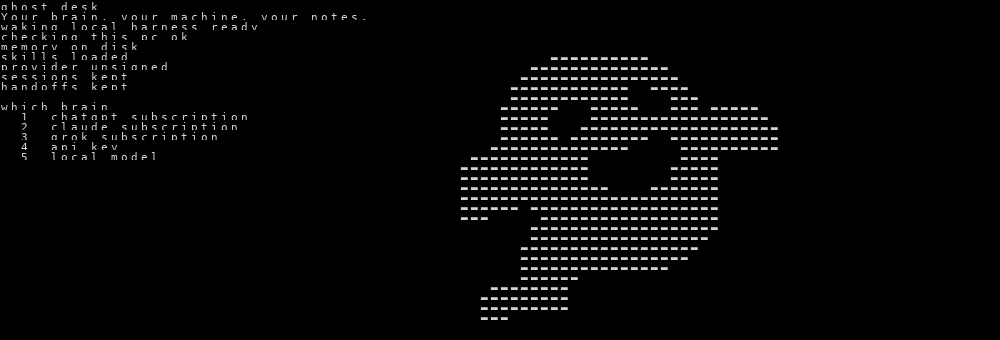
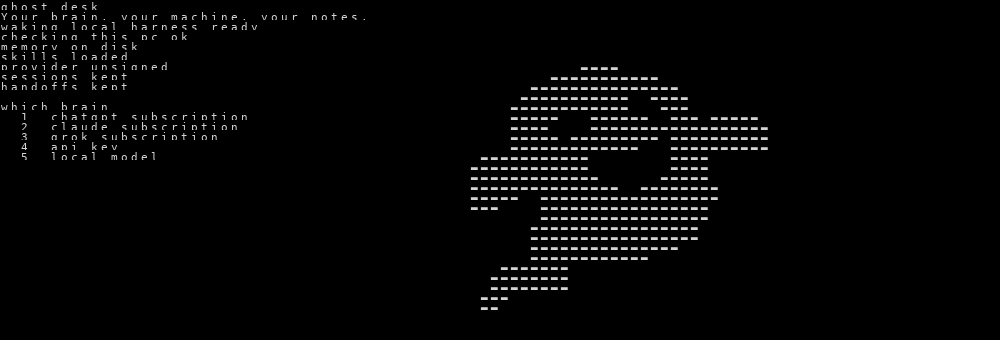
Render the cartoon ghost smoothly, exactly as drawn
- New smooth pipeline for cartoon art: lift the flat gray background
  to black, keep the soft shading and clean outlines with LANCZOS,
  no more dot-density speckle
- The portrait is now the actual drawing: round body, side-glancing
  eyes, open mouth, stubby arms, wavy tail
- Fresh boot/session screenshots

diff --git a/src/ghost_desk/face.py b/src/ghost_desk/face.py
@@ -13,7 +13,9 @@ SESSION_HEIGHT = 38
 _BLACK = 16
 _DOT = 64
 # White-on-gray art needs a higher cut so the background drops to black.
-_DOT_BY_ASSET = {"ghost.png": 110}
+_DOT_BY_ASSET: dict[str, int] = {}
+# Cartoon art renders smooth: no dot threshold, background keyed out.
+_SMOOTH_ASSETS = {"ghost.png"}
 _BLOCK_CACHE: dict[tuple, list] = {}
 _ANSI_CACHE: dict[tuple, list[str]] = {}
 
@@ -38,11 +40,18 @@ def _dark(value) -> bool:
 def _load(path: Path, width: int, height: int):
     from PIL import Image
 
+    name = Path(path).name
     image = Image.open(path).convert("RGB")
     image = _crop_subject(image).convert("L")
+    target_w, target_h = width, height * 2
+    if name in _SMOOTH_ASSETS:
+        # Cartoon art: lift the flat gray background to black, keep the
+        # smooth shading and clean outlines. No dot threshold.
+        image = image.point(lambda v: 0 if v <= 85 else min(255, int((v - 85) * 1.15)))
+        return image.resize((target_w, target_h), Image.Resampling.LANCZOS)
     # Dots to pure white first: each output cell then measures dot density,
     # which survives the downscale instead of blurring into mush.
-    dot = _DOT_BY_ASSET.get(Path(path).name, _DOT)
+    dot = _DOT_BY_ASSET.get(name, _DOT)
     image = image.point(lambda v: 255 if v > dot else 0)
     target_w, target_h = width, height * 2
     # Center-crop to an integer multiple of the target so the averaging
